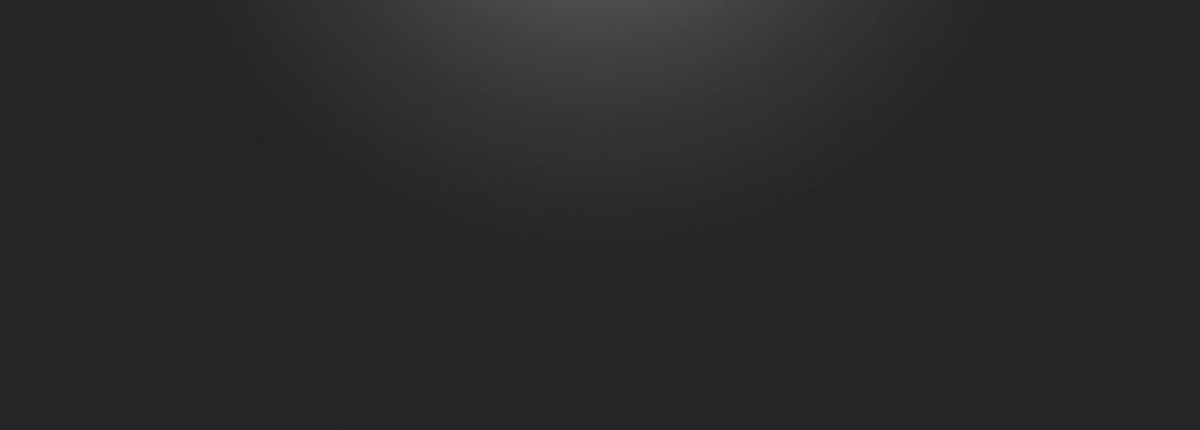
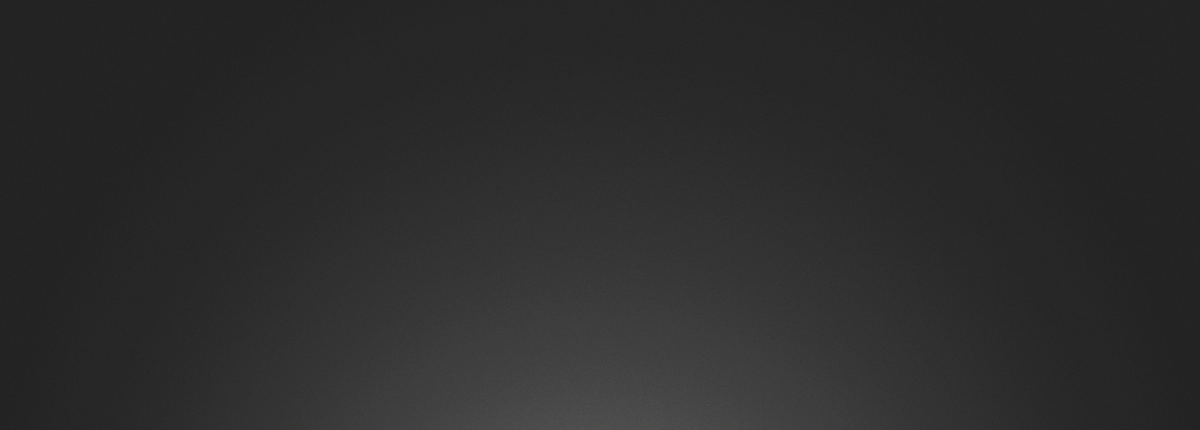
simplified design

Changed region(s): [[0.2775, 0.6953, 0.7092, 1.0], [0.3392, 0.0, 0.6783, 0.1512]]

diff --git a/css/elements.css b/css/elements.css
@@ -31,7 +31,7 @@ div.orbit-wrapper {
 
 #sliderbg {
 		border-top: 1px solid #999;
-		background: #bbb; url(../images/sliderbg1.png);
+		background: #bbb url(../images/sliderbg.png);
 }
 
 /*============================*/
